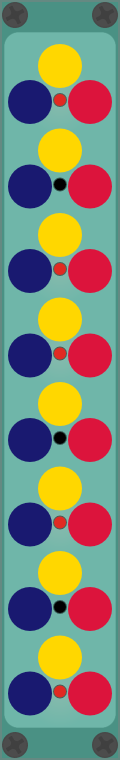
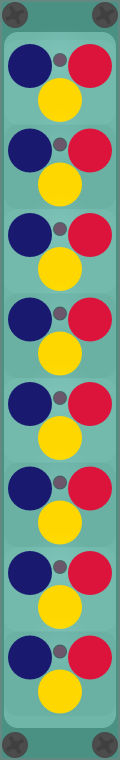
ShutIt: panel and layout, lights

diff --git a/src/ShutIt.cpp b/src/ShutIt.cpp
@@ -32,7 +32,7 @@ struct ShutIt : Module {
 	};
 	enum LightIds {
 		A_STATE,
-		NUM_LIGHTS = A_STATE + CHANCOUNT
+		NUM_LIGHTS = A_STATE + CHANCOUNT*2
 	};
 
 	bool muteState[CHANCOUNT] {};
@@ -98,7 +98,8 @@ void ShutIt::step() {
 			out = inputs[A_IN + i].value;
 
 		outputs[A_OUT + i].value = muteState[i] ? 0.0 : out;
-		lights[A_STATE + i].value = muteState[i] ? 0.75 : 0;
+		lights[A_STATE + 2*i].value = muteState[i] ? 0 : 0.125;
+		lights[A_STATE+1 + 2*i].value = muteState[i] ? 1 : 0.125;
 	}
 }
 
@@ -108,6 +109,12 @@ template <typename BASE>
  		this->box.size = Vec(6, 6);
  	}
  };
+ struct BlueRedLight : ModuleLightWidget {
+	BlueRedLight() {
+		addBaseColor(COLOR_BLUE);
+		addBaseColor(COLOR_RED);
+	}
+};
 // ugh
  struct EmptyButton : SVGSwitch, MomentarySwitch {
 	EmptyButton() {
@@ -123,7 +130,7 @@ ShutItWidget::ShutItWidget() {
 	{
 		SVGPanel *panel = new SVGPanel();
 		panel->box.size = box.size;
-		panel->setBackground(SVG::load(assetPlugin(plugin, "res/panels/panel4HE.svg")));
+		panel->setBackground(SVG::load(assetPlugin(plugin, "res/panels/panel4HEocta.svg")));
 		addChild(panel);
 	}
 	// screws
@@ -135,10 +142,10 @@ ShutItWidget::ShutItWidget() {
 	for (int i = 0; i < CHANCOUNT; i++) {
 		float top = 42.25;
 
-		addChild(createLight<MuteLight<RedLight>>(Vec(27,47 + top*i), module, ShutIt::A_STATE + i));
+		addChild(createLight<MuteLight<BlueRedLight>>(Vec(27,27 + top*i), module, ShutIt::A_STATE + 2*i));
 		addParam(createParam<EmptyButton>(Vec(2,22 + top*i),module, ShutIt::A_MUTE + i, 0, 1 , 0));
-		addInput(createInput<ModInPort>(Vec(19,22 + top*i),module, ShutIt::A_TRIG + i));
-		addInput(createInput<InPort>(Vec(4,40 + top*i),module, ShutIt::A_IN + i));
-		addOutput(createOutput<OutPort>(Vec(34,40 + top*i),module, ShutIt::A_OUT + i));
+		addInput(createInput<ModInPort>(Vec(19,39 + top*i),module, ShutIt::A_TRIG + i));
+		addInput(createInput<InPort>(Vec(4,22 + top*i),module, ShutIt::A_IN + i));
+		addOutput(createOutput<OutPort>(Vec(34,22 + top*i),module, ShutIt::A_OUT + i));
 	}
 }

diff --git a/docs/shutit.md b/docs/shutit.md
@@ -15,5 +15,5 @@ __1 trigger input__ - center, yellow, changes mute state (also normalized to las
 __Mute Channel__ - clicking the empty field around the ports of each channel toggles mute state
 
 ## Changes
-__0.5.7__ - trigger inputs normalized too, allows for more switching combinations  
+__0.5.7__ - trigger input normalization, visual changes
 __0.5.6__ - initial version

diff --git a/CHANGELOG.md b/CHANGELOG.md
@@ -8,6 +8,8 @@
   
 ##### ShutIt
   - cv inputs now normalized to last connected above  
+  - panel layout  
+  - two-color lights
   
 ##### VUBar
   - fixed lights not shutting off when input is unplugged  
